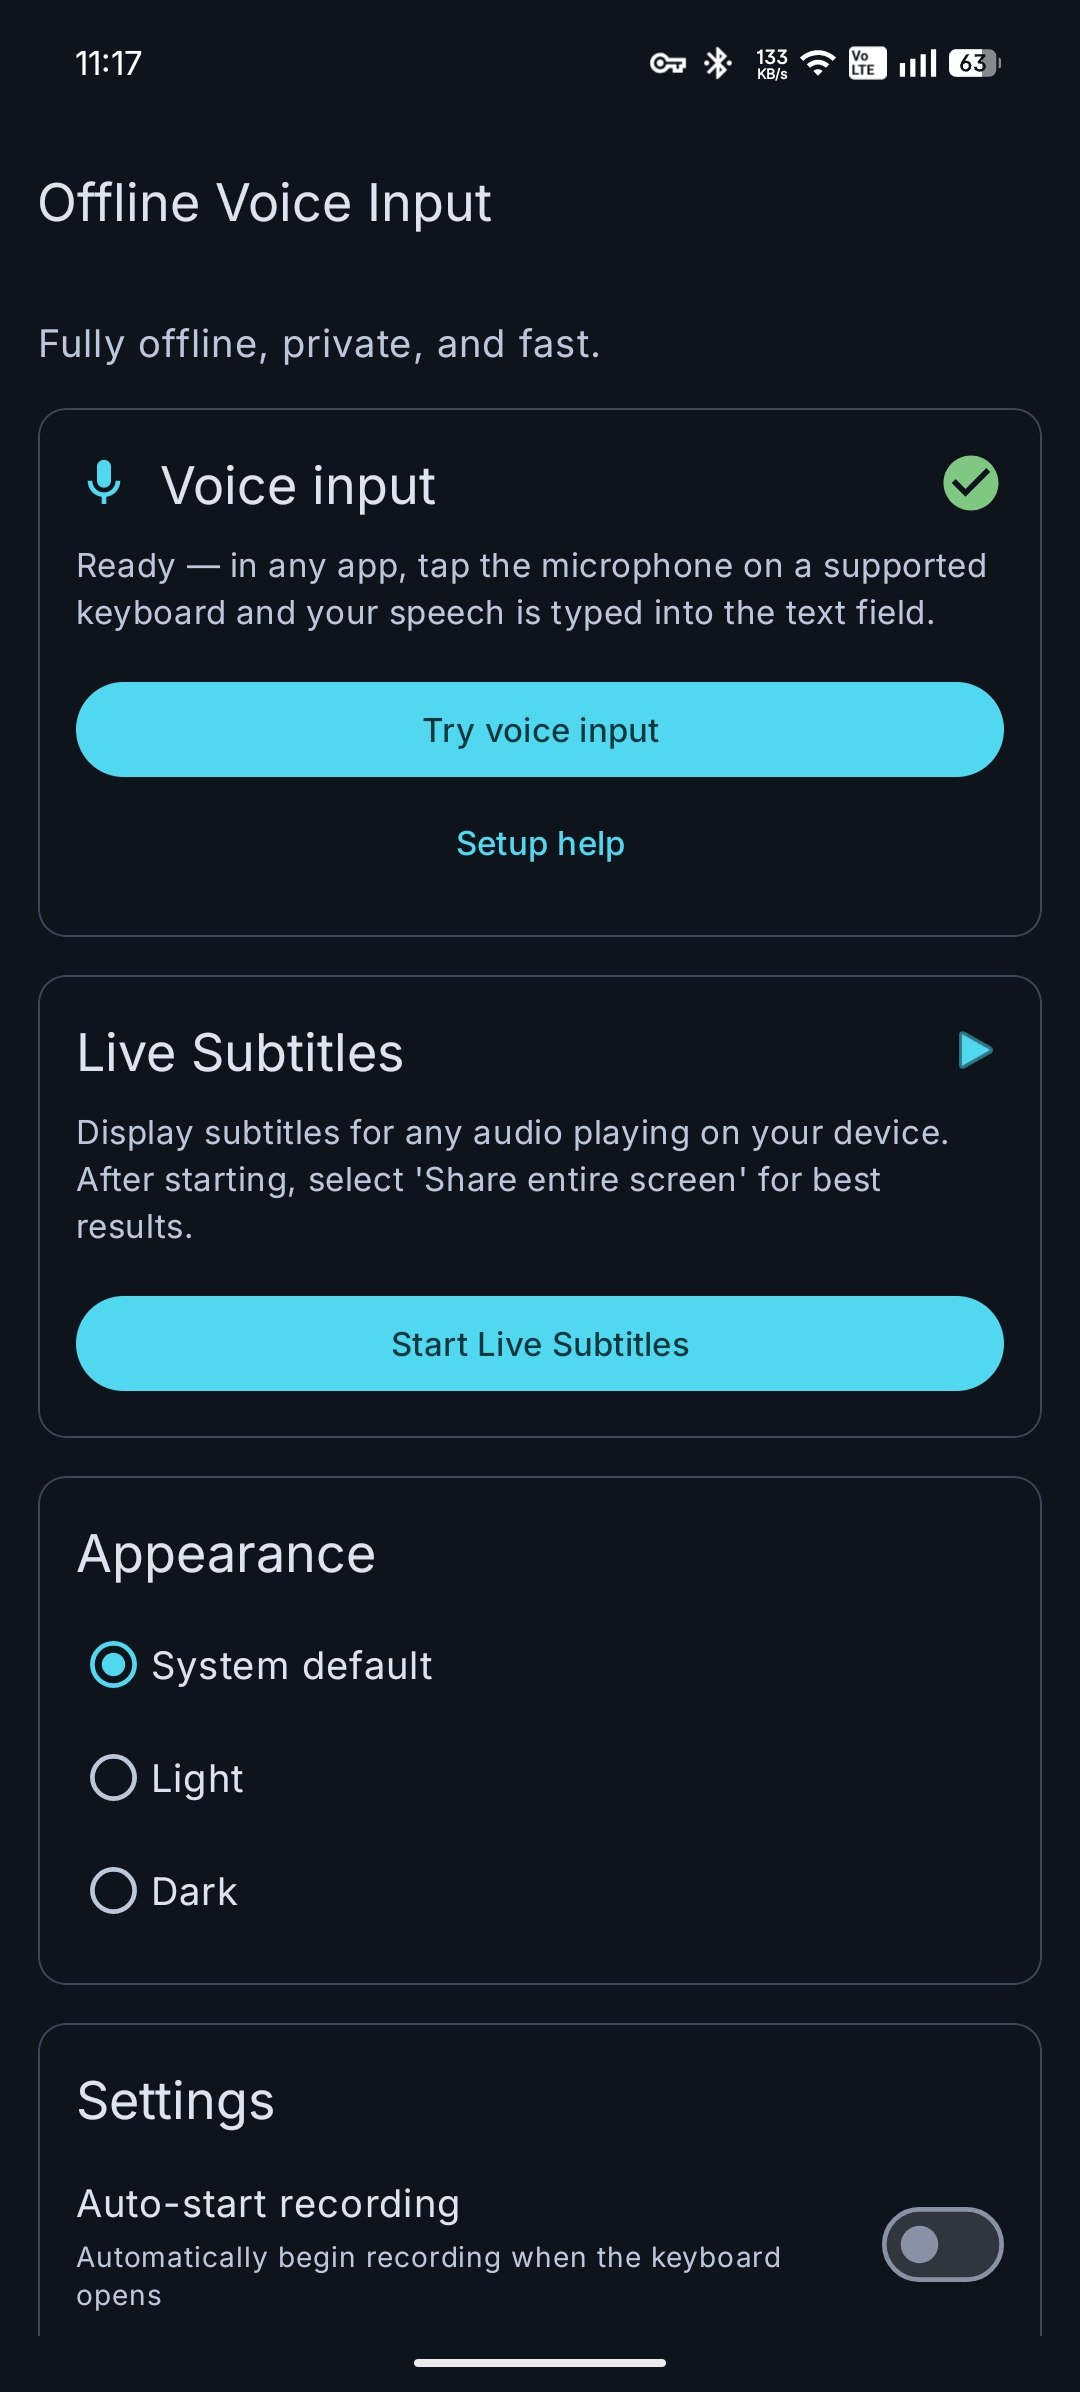
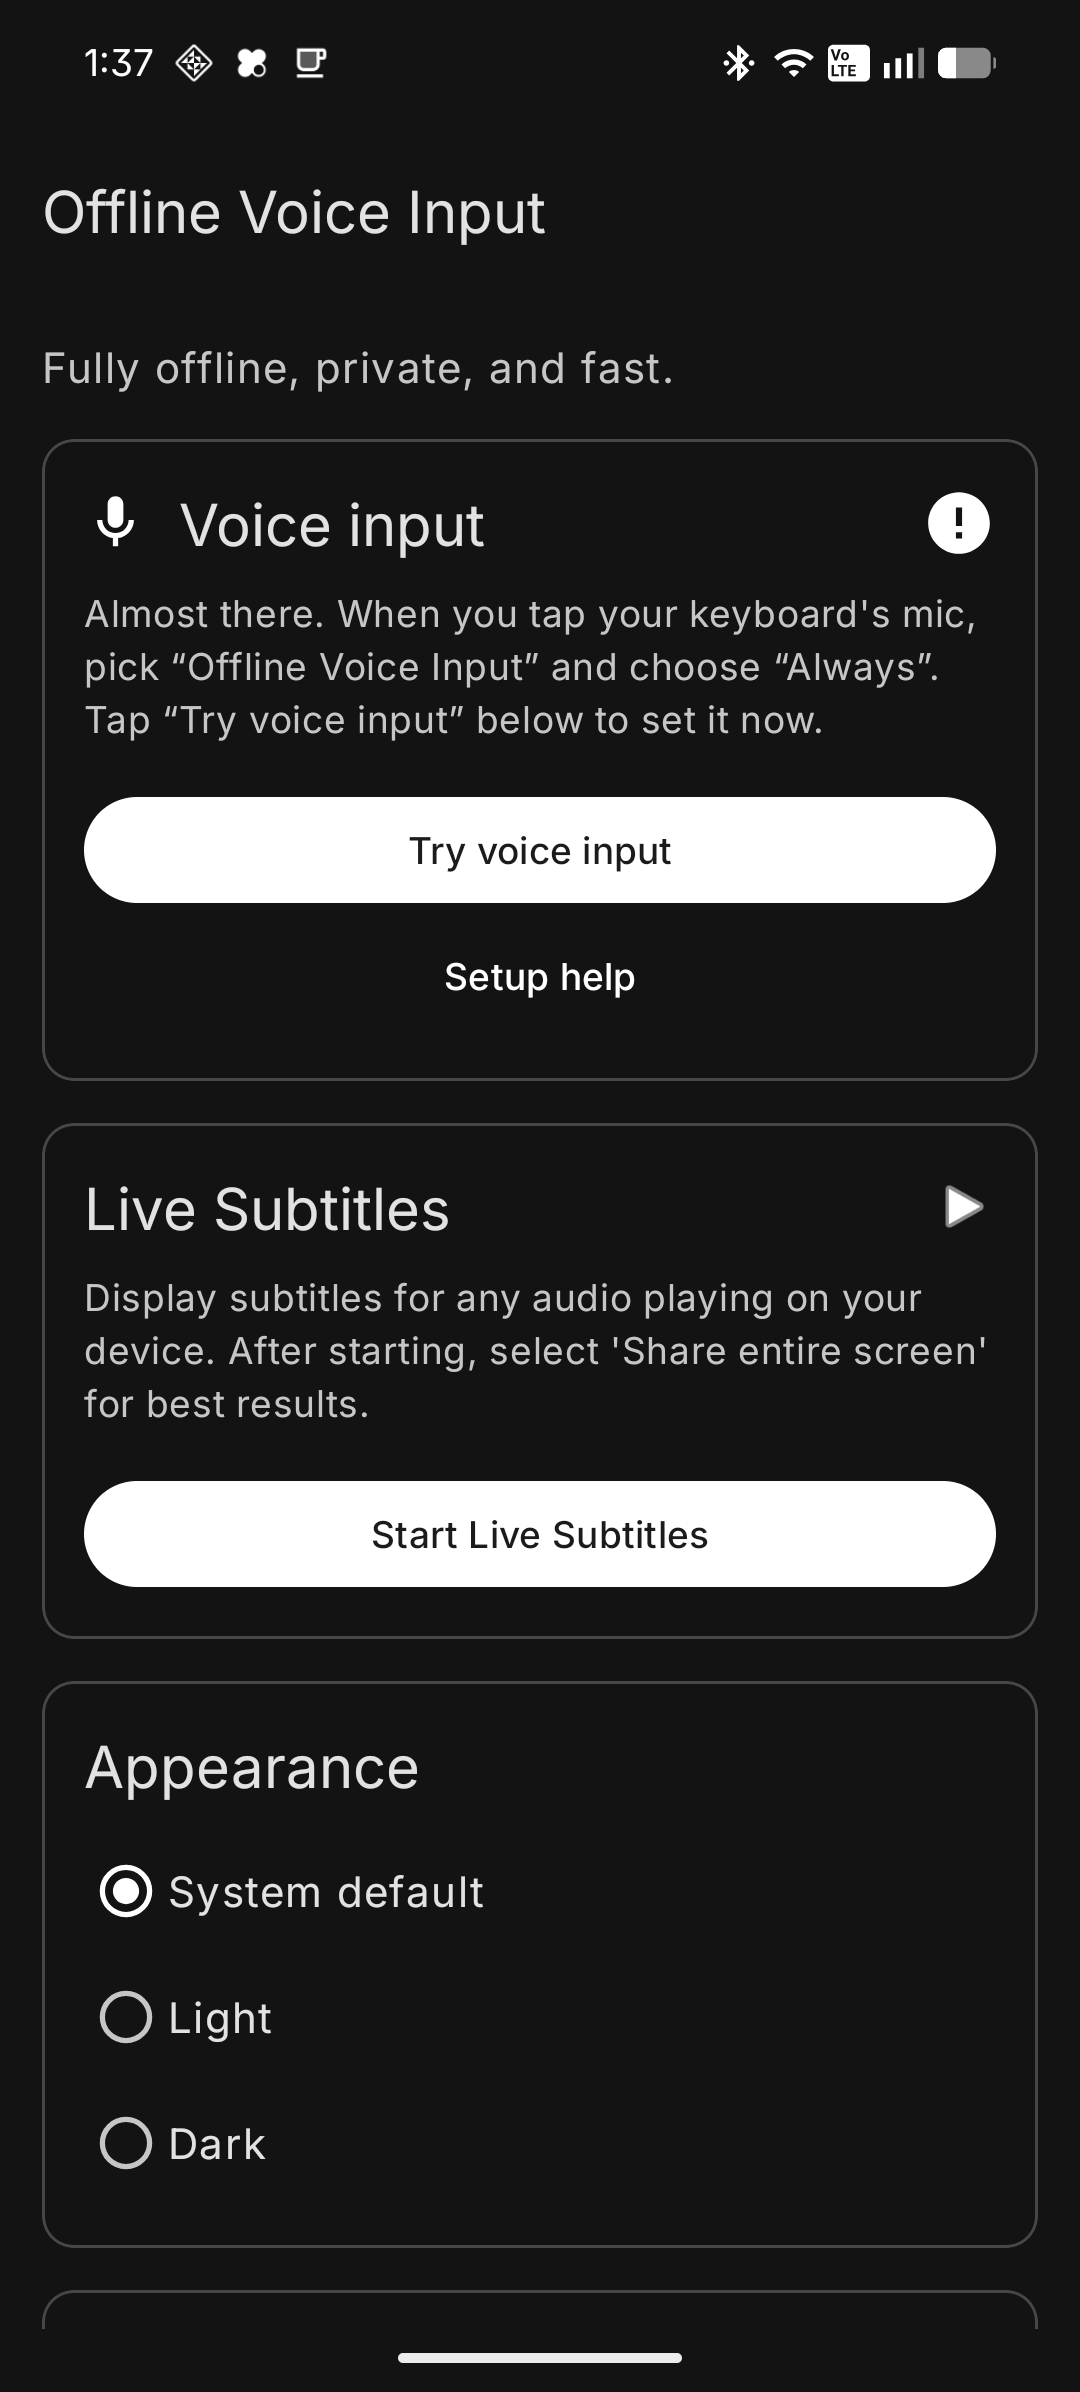
v0.9.0: cleanup release — three-pillar narrative
versionCode 32 / versionName 0.9.0 (app/build.gradle.kts, Cargo.toml, Cargo.lock). README rewritten around three pillars (engine / post-process / model UX). fastlane/full_description.txt and short_description.txt rewritten. AGENTS.md Current version updated for v0.9.0. fastlane/metadata/android/en-US/changelogs/32.txt added (this release's GitHub release notes). Tracked screenshots in .screenshots/ renewed.

diff --git a/README.md b/README.md
@@ -1,31 +1,56 @@
 # Offline Voice Input (Android)
 
-An offline, privacy-focused voice input keyboard, live subtitle tool, and AI-powered text refiner (Handy-like) for Android, built with Rust.
+> A clean-up release (v0.9.0): narrative rebuilt around three things this fork does differently from upstream (`notune/android_transcribe_app`).
+
+Offline, privacy-focused voice input keyboard, live subtitle tool, and AI-powered text refiner for Android. Built with Rust.
 
 [<img src="https://i.ibb.co/q0mdc4Z/get-it-on-github.png"
 alt="Get it on GitHub"
 height="80">](https://github.com/marodriguezd/android_transcribe_app/releases/latest)
 
+## Three pillars
+
+**1. Transcription engine.** We kept the Rust ONNX pipeline (transcribe-rs) + NVIDIA Parakeet TDT 0.6B + Canary 180M Flash, INT8 quantized. Upstream moved to `transcribe.cpp` + Whisper; this fork does not.
+
+- **Fast** (0.6B, ~640 MB on disk) — best accuracy for general dictation
+- **Fastest** (180M Flash, ~395 MB) — smaller footprint, fits older / low-RAM devices
+- **Use without model** — register as the speech-to-text provider without using it; download later
+
+Once downloaded, models live in the app sandbox and load via `mmap` with zero copy. NNAPI + XNNPACK providers on Android.
+
+**2. AI post-processing (optional).** Sends the raw transcript to any OpenAI-compatible endpoint (OpenAI, Gemini, Groq, LM Studio, local Ollama) with the prompt of your choosing.
+
+- **Multi-prompt templates** — switch the active prompt per dictation (formal tone, casual tone, list-cleanup, target language) without editing inline
+- **Edit, duplicate, import, export** prompts as JSON
+- **Default app prompt is editable + exportable** — customise once; "Reset to default" returns to the canonical version
+- **Default "My words" dictionary is editable + exportable** — same model
+- Built-in prompt is tuned for speech-to-text repair (self-corrections, filler removal, ITN, list-formatting) without paraphrasing the speaker's words
+
+**3. Model selection is a real first-run choice.** Welcome dialog shows the three options with their footprint inline (`Fast / 0.6B`, `Fastest / 180M`, `Use without / No model`). Switch models anytime. Skip on first launch if you only want the speech-to-text provider registered.
+
 ## Features
 
-- **Offline Transcription:** Uses deep learning models (Parakeet TDT) to transcribe speech entirely on-device.
+- **Offline Transcription:** Uses deep learning models (Parakeet TDT, Canary 180M Flash) to transcribe speech entirely on-device.
 - **Zero-Copy Model Loading:** ONNX models are memory-mapped (`mmap`) directly from APK assets — no extraction step, instant startup.
 - **Hardware Acceleration:** Powered by **NNAPI** and **XNNPACK** for high-performance inference on mobile NPUs and CPUs.
 - **Lock-Free Audio Pipeline:** Audio level updates use atomic operations (`AtomicU32`), fully decoupled from the JVM — no GC pauses during capture.
 - **Supported Languages:** Bulgarian, Croatian, Czech, Danish, Dutch, English, Estonian, Finnish, French, German, Greek, Hungarian, Italian, Latvian, Lithuanian, Maltese, Polish, Portuguese, Romanian, Slovak, Slovenian, Spanish, Swedish, Russian, Ukrainian
-- **Voice Input Keyboard** Use your voice as a text field input method.
+- **Voice Input Keyboard** — register as your device's speech-to-text provider; tap the mic on a SwiftKey / HeliBoard / OpenBoard keyboard and choose "Offline Voice Input".
 - **Live Subtitles:** Real-time captions for any audio/video playing on your device, with automatic silence detection and clearing.
-- **AI Post-Processing:** Optional text refinement using LLMs (OpenAI, Gemini, Ollama). Refine your transcriptions with custom prompts, model discovery, and base URL support—similar to [Handy.computer](https://handy.computer). Features strict language preservation to perfectly maintain your original language.
-- **Custom Dictionary & Hotwords:** Use a custom dictionary to instantly fix common misspellings (`error=correction`) or provide AI context hints for your specific vocabulary.
-- **Privacy-First:** No audio data leaves your device. Local transcription by default.
+- **AI Post-Processing:** Optional text refinement using LLMs (OpenAI, Gemini, Ollama, Groq, LM Studio). Multi-prompt template system.
+- **Custom Dictionary & Hotwords:** Use a custom dictionary to instantly fix common misspellings (`error=correction`) or provide AI context hints for your specific vocabulary. The default "My words" dictionary is editable and exportable.
+- **Privacy-First:** No audio data leaves your device. Local transcription by default; post-processing is opt-in to a URL you control.
 - **Rust Backend:** High-performance native code using **transcribe-rs** and **ONNX Runtime 1.25.0**.
 
-## Screenshots
-<p float="left">
-  <img src=".screenshots/screenshot_1.png" width="30%" />
-  <img src=".screenshots/screenshot_2.png" width="30%" /> 
-  <img src=".screenshots/screenshot_3.png" width="30%" />
-</p>
+## How it differs from upstream
+
+This fork (`marodriguezd/android_transcribe_app`) diverges from `notune/android_transcribe_app` since the v0.1.17 split point. The three pillars above summarise the divergences. The two packages share the namespace `dev.notune.transcribe`, so they cannot coexist on the same device.
+
+Upstream's recent direction (v0.1.18) switched the engine to `transcribe.cpp` + Whisper and added a thread-count setting. We did not follow either of those changes — staying with `transcribe-rs` + Parakeet/Canary because:
+
+- Parakeet / Canary ship as quantized INT8 ONNX models that load via `mmap` — no model-side dependencies, no separate inference process
+- The Rust + ONNX Runtime pipeline is the same `cdylib` Android already expects
+- Canary 180M Flash gives us a smaller on-device variant for older devices
 
 ## Prerequisites
 
@@ -75,7 +100,6 @@ org.gradle.java.home=/path/to/jdk17
 # Output: app/build/outputs/apk/release/app-release.apk
 ```
 
-
 ### Signing
 
 For release builds, place a `release.keystore` in the project root and set these environment variables:
@@ -90,15 +114,16 @@ export STORE_PASS=yourpassword
 
 The Parakeet TDT model files (~670 MB) are automatically downloaded from HuggingFace during the first build via a Gradle task. Checksums are verified with SHA-256. No manual download is needed. At runtime, models are loaded directly from the APK via memory mapping — no extra disk space is required beyond the APK itself.
 
-### AI Post-Processing (Handy-like)
+### AI Post-Processing
 
 To enable AI-powered text refinement:
-1. Open the app and navigate to **Ajustes de Post-Proceso**.
+1. Open the app and navigate to **Post-Processing Settings**.
 2. Enable the feature and enter your **API Base URL** (e.g., `https://api.openai.com/v1`).
 3. Provide your **API Key** (optional for local models like Ollama).
-4. Tap the **Refresh** icon next to the Model Name to fetch available models.
-5. Define your **Prompt** (use `${output}` as a placeholder for the raw text).
-6. Save and start dictating!
+4. Tap **Refresh** next to the Model Name to fetch available models from `/v1/models`.
+5. Open **Manage prompts** and pick an active template, or write your own. Use `${output}` as a placeholder for the raw text.
+6. Save and start dictating!  
+   Multiple prompts are supported — switch the active one between dictations without retyping. The default app prompt and the default "My words" dictionary are editable; export them as JSON to share across devices.
 
 ## Project Structure
 
@@ -123,10 +148,11 @@ To enable AI-powered text refinement:
 
 ## Acknowledgments
 
-- **Speech Model:** [Parakeet TDT 0.6b v3](https://huggingface.co/nvidia/parakeet-tdt-0.6b-v3) by NVIDIA.
-    - ONNX quantization by [istupakov](https://huggingface.co/istupakov/parakeet-tdt-0.6b-v3-onnx).
-    - Licensed under [CC-BY 4.0](https://creativecommons.org/licenses/by/4.0/).
+- **Speech Models:**
+    - [Parakeet TDT 0.6B v3](https://huggingface.co/nvidia/parakeet-tdt-0.6b-v3) by NVIDIA, ONNX-quantized by [istupakov](https://huggingface.co/istupakov/parakeet-tdt-0.6b-v3-onnx). CC-BY 4.0.
+    - [Canary 180M Flash](https://huggingface.co/nvidia/canary-180m-flash) by NVIDIA, ONNX-quantized by [istupakov](https://huggingface.co/istupakov/canary-180m-flash-onnx). CC-BY 4.0.
 - **Inference Backend:** [transcribe-rs](https://github.com/cjpais/transcribe-rs) by CJ Pais.
+- **Upstream fork point:** [notune/android_transcribe_app](https://github.com/notune/android_transcribe_app) v0.1.17.
 
 ## License
 

diff --git a/AGENTS.md b/AGENTS.md
@@ -43,11 +43,14 @@ Models are stored in `getFilesDir()/models/parakeet-tdt-0.6b-v3-int8/` for 0.6B 
 
 ## Current version
 
-- **v0.8.7** (versionCode 30) — "Defensive leak fixes (Activity-context hygiene) + E2E verification on A059"
-- Released: 2026-07-19
-- APK: https://github.com/marodriguezd/android_transcribe_app/releases/tag/v0.8.7
-- Supersedes **v0.8.6** (released 2026-07-18): v0.8.6 added the defensive `assembleRelease` asserts and the post-processing prompt single source of truth. v0.8.7 adds two Activity-leak hardenings surfaced by code-review: `SettingsManager.getSystemPrompt` and `SettingsManager.applyDictionary` now route through `getContext()` (which calls `.getApplicationContext()`) instead of storing `prefs_context` raw, so a long-lived `SettingsManager` instance cannot leak any Activity reference handed in via the constructor. E2E transcription test on A059 (Android 16) validated the v0.8.6 source pipeline against dots.wav (588 chars Steve Jobs) + jfk.wav (108 chars byte-for-byte match) using the 0.6B Parakeet engine.
-- Latest commit on `develop` (8c1722d): **feat: multi-prompt post-processing + bundled debug assets + TFA improvements** (see Session history below). The versionCode/versionName were NOT bumped — this feature set is destined for the next release (v0.8.8 or later).
+- **v0.9.0** (versionCode 32) — "Clean-up release. 8 prior v0.x GitHub Releases hard-deleted; new narrative built around three pillars that distinguish this fork from upstream."
+- Released: 2026-07-20
+- APK: https://github.com/marodriguezd/android_transcribe_app/releases/tag/v0.9.0
+- The three pillars:
+  1. **Transcription engine** — kept the Rust/ONNX pipeline (`transcribe-rs` + NVIDIA Parakeet TDT 0.6B + Canary 180M Flash, INT8 quantized) instead of upstream's `v0.1.18` move to `transcribe.cpp` + Whisper.
+  2. **AI post-processing** — multi-prompt template system, default app prompt editable + exportable, default "My words" dictionary editable + exportable. Upstream has no post-processing system at all.
+  3. **Model selection UX** — first-run welcome dialog with three options + footprint inline (`Fast / 0.6B`, `Fastest / 180M`, `Use without / No model`). Real choice that the user can revisit anytime.
+- v0.8.x detailed history retained below (see "Session history (v0.8.x)" sub-sections) for debugging context. This v0.9.0 release consolidates that work into the pillar framing; the underlying behaviour is unchanged except for the versionName/Code bump and the marketing/narrative updates in `README.md`, `fastlane/metadata/`, and this file's "Current version" header.
 
 
 ## Device / ADB
@@ -81,8 +84,8 @@ Models are stored in `getFilesDir()/models/parakeet-tdt-0.6b-v3-int8/` for 0.6B 
 ## Branches
 
 - `main` (60548dd) — diverged from `develop` at v0.8.0; `develop` is 16 commits ahead
-- `develop` (8c1722d) — HEAD: "feat: multi-prompt post-processing + bundled debug assets + TFA improvements"
-- Tags: `v0.8.0` through `v0.8.7` exist; each tag marks a release APK build
+- `develop` — HEAD includes the v0.9.0 cleanup commits (version bump, fastlane metadata + README rewrite, AGENTS.md "Current version" + Session history consolidation)
+- Tags: `v0.8.0` through `v0.8.8` retained locally for git history audit; all GitHub Releases from `v0.2.0-ai` through `v0.8.8` were hard-deleted at the v0.9.0 release commit.
 
 ## Build & release
 
@@ -92,8 +95,31 @@ Models are stored in `getFilesDir()/models/parakeet-tdt-0.6b-v3-int8/` for 0.6B 
 
 # Create release (after bumping version + versionCode)
 gh release create vX.Y.Z --repo marodriguezd/android_transcribe_app \
-  --title "Title (vX.Y.Z)" --notes "..." app/build/outputs/apk/release/app-release.apk#APK
+  --title "Title (vX.Y.Z)" --notes "$(cat fastlane/metadata/android/en-US/changelogs/<versionCode>.txt)" \
+  app/build/outputs/apk/release/app-release.apk#APK
+
+# Hard-delete a stale release (irreversible — be sure)
+gh release delete vX.Y.Z --repo marodriguezd/android_transcribe_app --yes
+# `gh release delete` removes the release from the API and unlinks the APK
+# asset. Git tags are NOT deleted. The release is recoverable from GitHub
+# support within ~30 days on request, but not from the CLI. Verify with
+# `gh release view` and `gh release list` before deleting.
 ```
+
+### Play Store caveat (only relevant if listing on Play)
+
+`title.txt` and the `<application android:label>` in `AndroidManifest.xml`
+both still say "Offline Voice Input", and `applicationId` is the
+`dev.notune.transcribe` namespace shared with the upstream build. Play
+Store rejects duplicate titles and duplicate `applicationId`s on the same
+Play Store account, so listing this build on Play requires either (a)
+shipping under a different `applicationId` suffix with a unique title, or
+(b) deleting the upstream listing first. F-Droid and direct APK
+distribution have neither restriction.
+
+## Differentiation vs upstream
+
+This fork (`marodriguezd/android_transcribe_app`) diverges from `notune/android_transcribe_app` at commit `bdecb25` (upstream `v0.1.17`). README.md, fastlane/full_description.txt and the GitHub release notes for v0.9.0 all lead with the **three pillars** framing. The same package name (`dev.notune.transcribe`) on both forks means they cannot coexist on the same device — pick one.
 
 ## Session history (v0.8.3)
 
